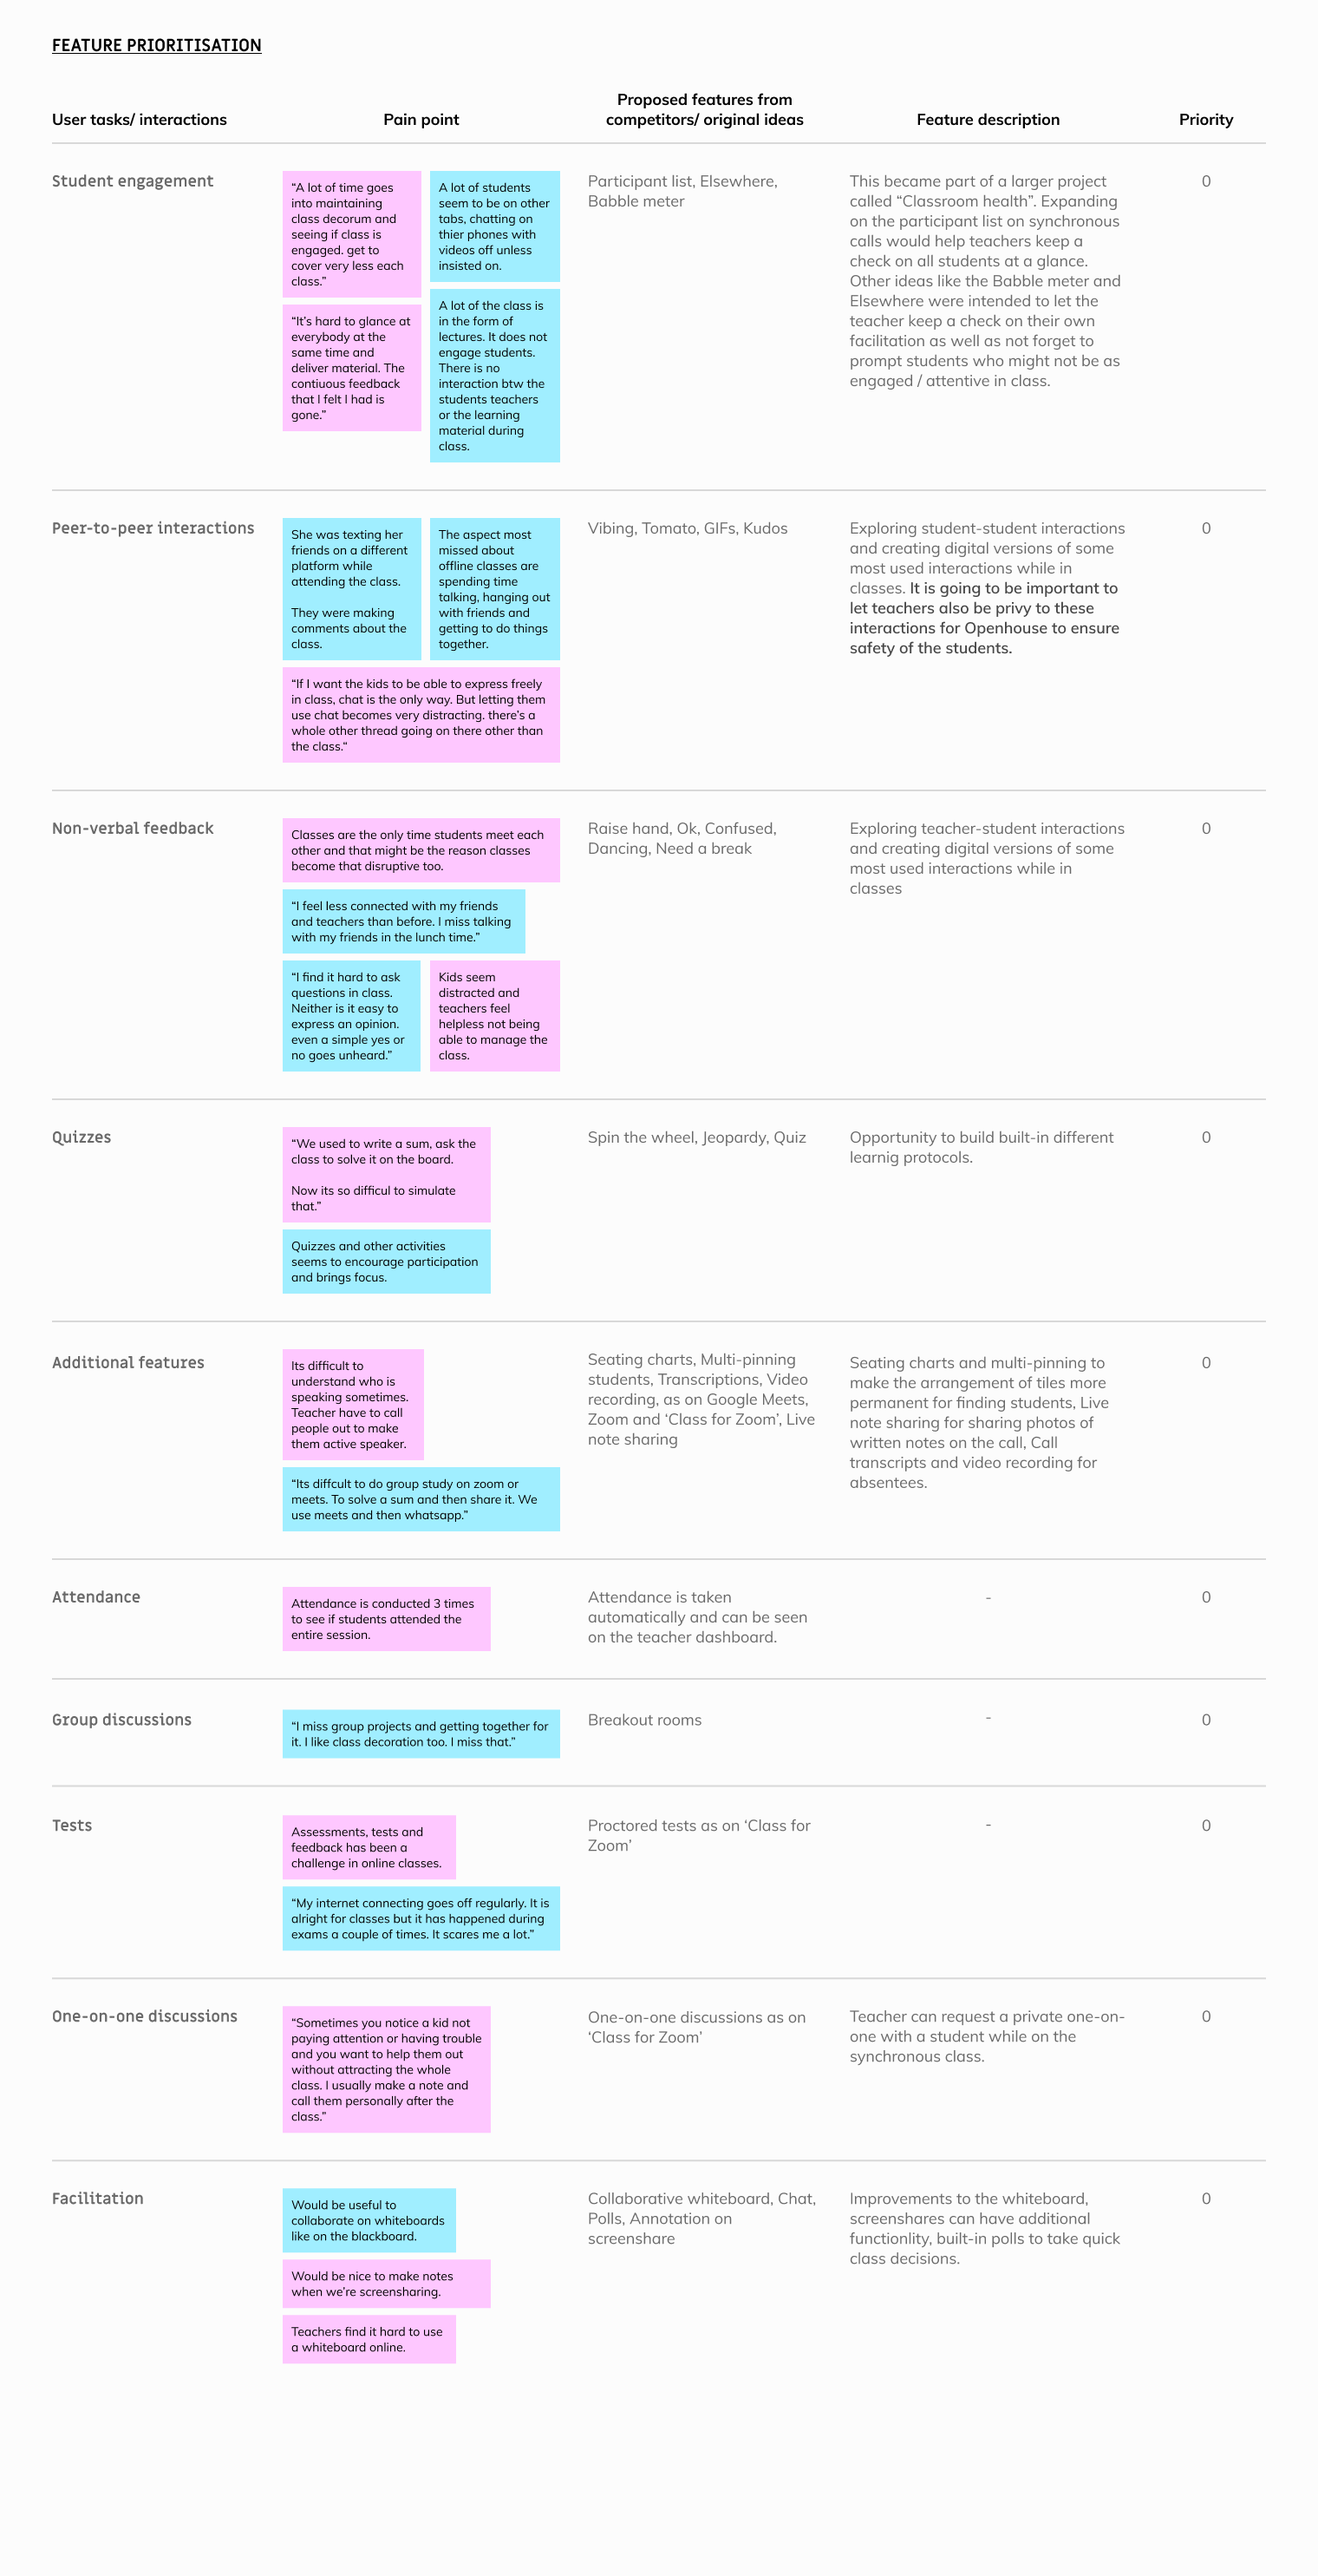
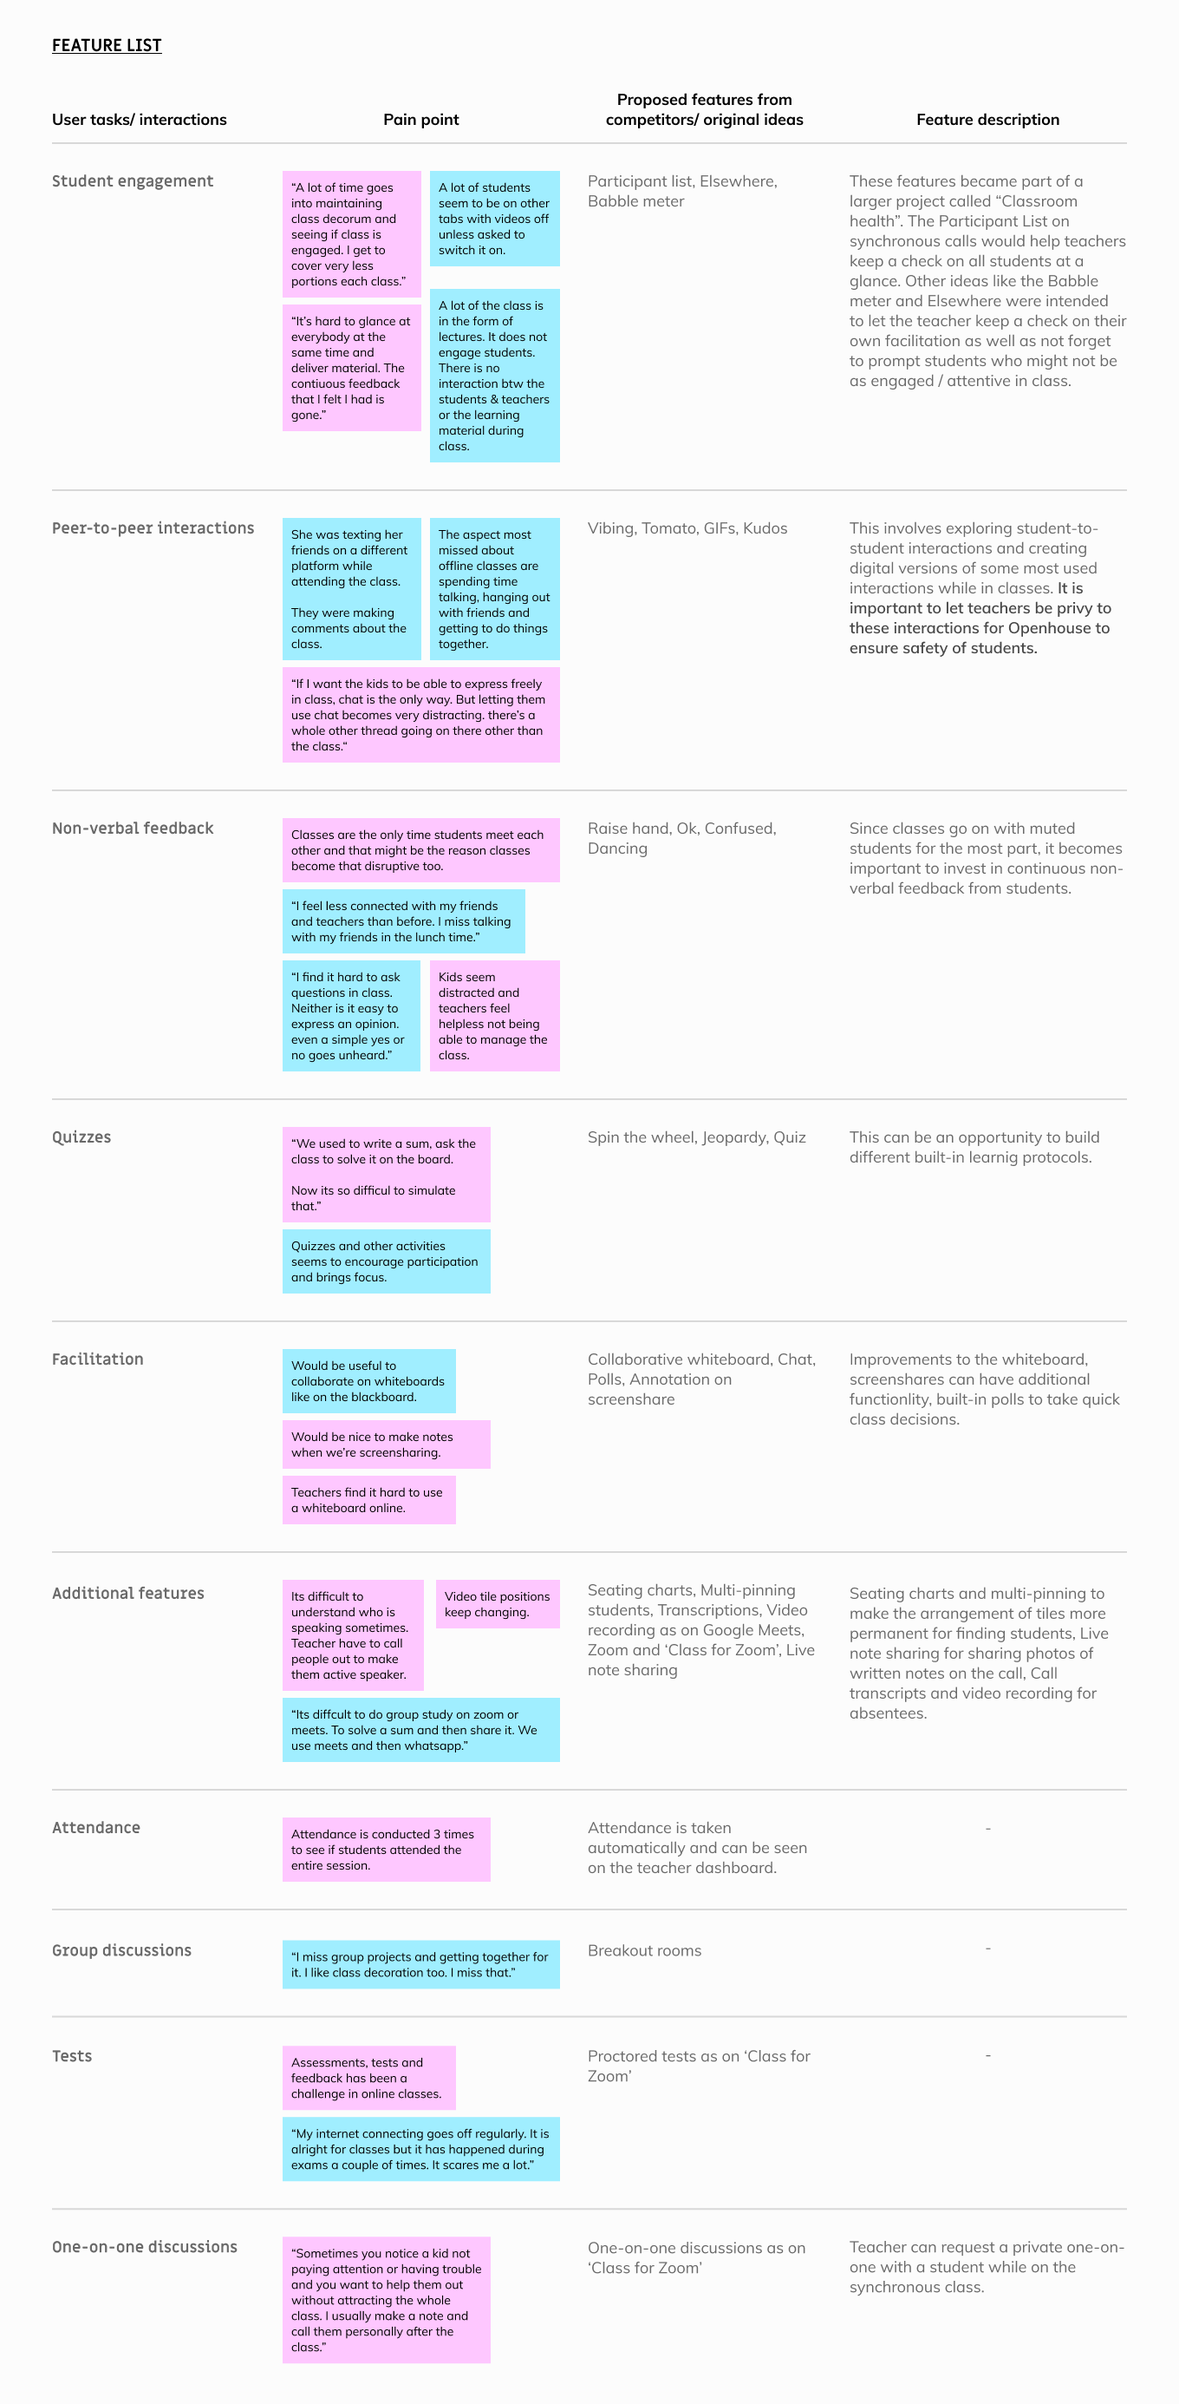
oh update

diff --git a/case-study-4.html b/case-study-4.html
@@ -73,9 +73,8 @@
 			The classes migrated online. And they soon realised that they could not facilitate the kind of classes they had envisioned for their future 
 			on traditional video conferencing platforms.</p>
 			
-			<p class="text">I was part of the design and product team entrusted 
-			to build an online learning space tailored towards the teacher and student 
-			communities at oh.
+			<p class="text">I was part of a very tight "single designer - single product manager working very closely with the founder" team entrusted 
+			to build an online learning space tailored towards teacher and student communities at oh for most of my time here.
 			</p>
 
 		<p class="text">Openhouse was a very interesting business to unpack and learn from.
@@ -228,9 +227,9 @@
 			covered in the CBSE, ICSE and IB syllabi for these grades. A team of academicians that made up the Learning Design team was assigned this task.
 		</p>
 
-		<p class="text">A quick brainstorming session was conducted that aimed to deconstruct some of our memorable learning experiences, inside and outside of schools.
+		<p class="text">A quick brainstorming session was conducted with an extended team that aimed to deconstruct some of our memorable learning experiences, inside and outside of schools.
 			We identified that every memorable learning experience we shared started off with feeling curious followed by some experimentation/ exploration and ended with some form of reflection.
-			Our Learning Design Team attempted to do just that with an 'Experience set'. A few Experience sets were designed for different subjects and we tested them out in a couple of live classes.
+			Our Learning Design Team attempted to do just that with an 'Experience set'.A few Experience sets were designed for different subjects and we tested them out in a couple of live classes.
 		</p>
 
 
@@ -240,10 +239,10 @@
 		<figcaption class="fig-tit">• User journey of an Experience Set •</figcaption>
 
 		<p class="text">In a class of 6-8 students online, we found that the experience sets really engaged students. The user feedback on it was very promising when compared 
-			to how the same lesson would have been facilitated otherwise. Although the scalability of it was a concern, the Learning Design team decided it was worth the effort. 
+			to how the same lesson would have been facilitated traditionally. Although the scalability of it was a concern, the Learning Design team decided it was worth the effort. 
 			The team incorporated existing learning protocols like quizzes, jeopardy, spin the wheel, memory palace etc. and continued to work on these Experience Sets.</p>
 
-		<h3 class="heading-three">Next, the learning space</h3>
+		<h3 class="heading-three">Next, Oh meets- the learning space</h3>
 
 		<p class="centralise-text"><b class="semi-bold">"Even if the pandemic goes away, this can happen again and online classes are definitely going to be part of the contigency plans from now on. 
 			
@@ -260,25 +259,107 @@
 		<iframe class="figma" width="55%" height="900" src="https://www.figma.com/embed?embed_host=share&url=https%3A%2F%2Fwww.figma.com%2Fproto%2FEls56UQJlCJ9nNIMYzJWFI%2FflightBuddyEmbed%3Fkind%3D%26node-id%3D49%253A3754%26scaling%3Dscale-down" allowfullscreen></iframe>
 		</div>
 
-		<p class="text">Services offered by oh..</p>
+		<p class="text">I worked on the design for the lobby.</p>
 
-		<h4 class="heading-four">User pain points about online video conferencing classes</h4>
+		<h4 class="heading-four">Synchronous online classes</h4>
 		
-		<p class="text">We now move onto the video conferencing platforms where synchronous learning takes place. All of the teachers we interviewed used either Zoom or Google Meets.
+		<p class="text">We then focused on the video conferencing platforms where synchronous learning takes place. All of the teachers we interviewed used either Zoom or Google Meets.
 			We shadowed classes on Zoom and Google Meets at oh and conducted focus groups with teachers and students. The objective was to identify their pain points conducting and attending
-			online classes. We looked at the different interactions/ user tasks in a class and looked at what we might want to put our efforts into first.
+			online classes. We looked at several interactions/ user tasks in a class from online and offline classes and create a priority list. We also found a very interesting competitor
+			called 'Class for Zoom' that was trying to solve some critical problems for online synchronous classes.
 		</p>
 
-		
-			<div class="full-width">
-				<img class="feamatrix" src="images/synchronous-classes.png" alt="User pain points">
-			</div>
-			<figcaption class="fig-tit">• User pain points •</figcaption>
+	
+		<div class="full-width">
+			<img class="ia-img" src="images/synchronous-classes.png" alt="Feature list">
+		</div>
+		<figcaption class="fig-tit">• Feature list •</figcaption>
 
 
+		<div class="full-width">
+			<img class="ia-img" src="images/wireframes-oh.png" alt="Empowered">
+		</div>
+		<figcaption class="fig-tit">• Brainstorming features •</figcaption>
 
-		<p class="text"></p>
-		<p class="text"></p>
+		<p class="text">I worked with the project manager on creating the feature list and brainstorming the possibilities.
+			I had the chance to contribute towards the design of the platform as we see in the designs below and a few other fun features- Student engagement, 
+			Peer to peer interactions and Non-verbal feedback. Other feature were detailed out by fellow designers.
+		</p>
+
+		<h4 class="heading-four">Student engagement features</h4>
+
+		<div class="full-width">
+			<img class="ia-img" src="images/elsewhere.png" alt="Elsewhere">
+		</div>
+		<figcaption class="fig-tit">• <b class="bold">Elsewhere-</b> When a student moves to another tab on their browser, their video tile becomes black and white and says 'Elsewhere'. 
+			This wasn't a widely popular idea among students but with a close knit and friendly class like at Openhouse, it was introduced not to penalise students but 
+			in the hopes that it might become a topic for lighter moments in class and in turn keep students engaged in class. •
+		</figcaption>
+
+		<div class="full-width">
+			<img class="ia-img" src="images/participant-list.png" alt="Partcipant list">
+		</div>
+		<figcaption class="fig-tit">• <b class="bold">Participant list-</b> The teacher can get a succint picture of everything happening realtime in a neatly ordered list, 
+			apply filters to the list and take actions if required. This becomes especially useful for when there are more than 6 students in class as that's the max 
+			the screen can show at a time. •
+		</figcaption>
+
+		<div class="full-width">
+			<img class="ia-img" src="images/babble-meter.png" alt="Babble meter">
+		</div>
+		<figcaption class="fig-tit">• <b class="bold">Babble meter-</b> We identified that it is diffcult to facilitate and at the same time pay attention to each student while on a call.
+			To help with this we give teachers, in realtime, an idea of how much each student has been speaking 
+			and direct the teacher's attention to prompt those who may not be speaking much or at all. •
+		</figcaption>
+
+		<h4 class="heading-four">Peer to peer interactions</h4>
+
+		<div class="full-width">
+			<img class="ia-img" src="images/tomato.png" alt="Greetings with a tomato">
+		</div>
+		<figcaption class="fig-tit">• <b class="bold">Greetings with a tomato-</b> We wanted to incentivise those who come to class with their videos on by giving them access 
+			to this feature. This feature
+			lets the teacher and students throw as many tomatoes as they'd like on others on the call. The prompts into the class are 'Throw tomatoes' and 'Not in mood'. 
+			Not in mood lets them enter class with their videos off and they will be unable to throw tomatoes on anybody for the duration of the class. 
+			It serves as a mood check for when a student enters the class and also serves to set the tone for any of our classes. This feature did show a dip in performace 
+			amongst oh meets users who used the platform for 6 months and more. •
+		</figcaption>
+
+		<div class="full-width">
+			<img class="ia-img" src="images/vibing.png" alt="Vibing">
+		</div>
+		<figcaption class="fig-tit">• <b class="bold">Vibing-</b> This is the millenial version of the '+1' reaction on platforms like slack. When a person "vibes" with 
+			another person in class, we see a neon vibing sign and glow on them simultaneously. •
+		</figcaption>
+
+		<div class="full-width">
+			<img class="ia-img" src="images/GIF.png" alt="GIF">
+		</div>
+		<figcaption class="fig-tit">• <b class="bold">GIF-</b> The video tile of a person changes to the GIF they posted on the chat. •
+		</figcaption>
+
+		<h4 class="heading-four">Non-verbal feedback</h4>
+
+		<div class="full-width">
+			<img class="ia-img" src="images/Non-verbal-feedback.png" alt="Non-verbal feedback">
+		</div>
+		<figcaption class="fig-tit">• <b class="bold">Non-verbal feedback-</b> We built 4 reactions keeping to the Oh tone including a hand-raise 
+			to cover a good number of situations in class. The handraise is persistant and remains until the teacher/ the student themselves put it down. The other reactions
+			last for 10 seconds like on Zoom. •
+		</figcaption>
+
+	
+		<p class="text">What we tried to do with most interactions is to make them happen right where the classes are. The intention was to avoid potentially distracting threads 
+			that can go on in the chatbox or elsewhere. This was also done to establish the tone that we aspire to for classes at Openhouse.
+		</p>
+
+		<p class="text">Since we were a growing startup, we used user testing to get feedback and keep tabs on the performance of oh meets. However, we noticed churn quite early after
+			the release
+		</p>
+
+		<p class="text">
+
+		</p>
 
 		<p class="text"><i>This was a project that built but did not continue for Education in developing countries has grave and pressing concerns starting from mere access for lack of infrastructure. We are aware 
 			of the many boundaries of this current study including digital accessibility for all and would definitely considder working on these aspects in subsequent phases. This 
